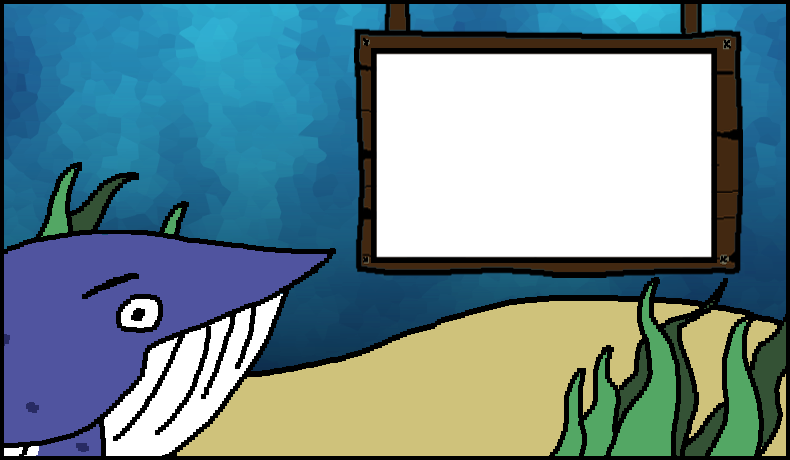
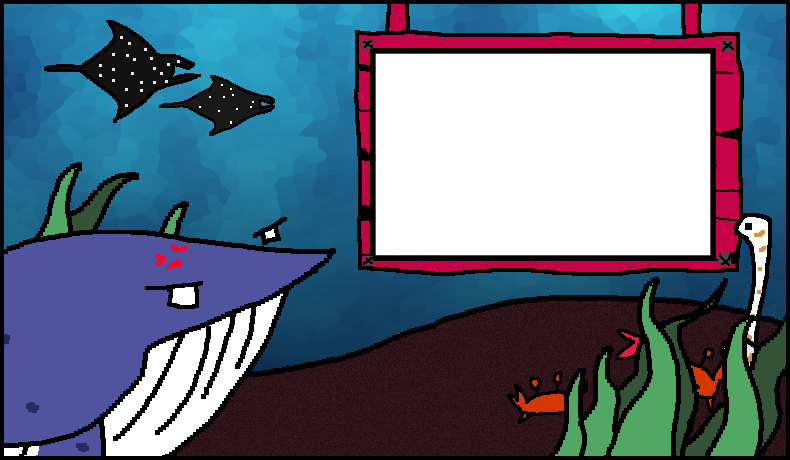
procedural commit 2

diff --git a/imageGeneration.ts b/imageGeneration.ts
@@ -1,0 +1,166 @@
+import { createCanvas, loadImage } from "canvas";
+import { randomBytes } from "crypto";
+import { load } from "dotenv";
+import * as fs from "fs";
+
+export default async function drawPicture(ticker, startDate, endDate, prices) {
+  //create canvas
+  const canvas = createCanvas(790, 460);
+  const ctx = canvas.getContext("2d");
+
+  //draw image
+  const backgroundsFolder = "./images/backgrounds";
+  const sandFolder = "./images/sand";
+  const signFolder = "./images/sign";
+  const objectFolder = "./images/objects";
+  const eyeFolder = "./images/eyes";
+  const whalePath = "./images/whale.png";
+  const imageSize = { x: 790, y: 460 };
+
+  //draw background
+  const backgroundArray = fs.readdirSync(backgroundsFolder);
+  const background = await loadImage(
+    `${backgroundsFolder}/${
+      backgroundArray[Math.floor(Math.random() * backgroundArray.length)]
+    }`
+  );
+  ctx.drawImage(background, 0, 0, imageSize.x, imageSize.y);
+
+  const sandArray = fs.readdirSync(sandFolder);
+  const sand = await loadImage(
+    `${sandFolder}/${sandArray[Math.floor(Math.random() * sandArray.length)]}`
+  );
+  ctx.drawImage(sand, 0, 0, imageSize.x, imageSize.y);
+
+  const signArray = fs.readdirSync(signFolder);
+  const sign = await loadImage(
+    `${signFolder}/${signArray[Math.floor(Math.random() * signArray.length)]}`
+  );
+  ctx.drawImage(sign, 0, 0, imageSize.x, imageSize.y);
+  //draw graph
+  drawGraph(startDate, endDate, prices, ctx);
+
+  //draw whale and objects
+  const whale = await loadImage(whalePath);
+  /*
+  NOISE FILTER
+  ctx.drawImage(whale, 0, 0, imageSize.x, imageSize.y);
+  let imgData = ctx.getImageData(0, 228, 335, 232);
+  for (let i = 0; i < imgData.data.length; i += 4) {
+    imgData.data[i] -= Math.floor(Math.random() * 255);
+    imgData.data[i + 1] -= Math.floor(Math.random() * 255);
+    imgData.data[i + 2] -= Math.floor(Math.random() * 255);
+  }
+  ctx.putImageData(imgData, 0, 228);
+  */
+
+  //draw ticker
+  ctx.save();
+  ctx.font = "40px sans-serif";
+  ctx.translate(260, 415);
+  ctx.rotate(350 * (Math.PI / 180));
+  ctx.fillStyle = "#FFFFFF";
+  ctx.fillText(ticker, 0, 0);
+  ctx.lineWidth = 1;
+  ctx.strokeStyle = "#000000";
+  ctx.strokeText(ticker, 0, 0);
+  ctx.restore();
+
+  //draw price
+  ctx.save();
+  ctx.translate(320, 435);
+  ctx.rotate(2.5 * (Math.PI / 180));
+  ctx.font = "40px sans-serif";
+
+  let change = 0;
+  let operator = "+";
+  const firstDay = prices[0];
+  const lastDay = prices[prices.length - 1];
+  if (firstDay < lastDay) {
+    change = ((lastDay - firstDay) / firstDay) * 100;
+    ctx.fillStyle = "#00FF00";
+  } else if (lastDay < firstDay) {
+    change = ((firstDay - lastDay) / firstDay) * 100;
+    operator = "-";
+    ctx.fillStyle = "#FF0000";
+  } else {
+    change = 0;
+    ctx.fillStyle = "#00FF00";
+  }
+  const result = change.toFixed(1);
+  ctx.fillText(`${operator}${result}%`, 0, 0);
+  ctx.restore();
+
+  const buffer = canvas.toBuffer("image/png");
+  fs.writeFileSync("./image.png", buffer);
+}
+
+function drawGraph(startDate, endDate, prices, ctx) {
+  //graph bounds
+  const boxX = 376;
+  const boxY = 60;
+  const boxWidth = 336;
+  const boxHeight = 198;
+
+  //graph size
+  const graphX = boxX + 50;
+  const graphY = 60;
+  const graphWidth = boxWidth - 50;
+  const graphHeight = 198;
+
+  //bar variables + % change
+  const largest = Math.max(...prices);
+  const smallest = Math.min(...prices) * 0.85;
+  const prices2 = prices
+    .map((x) => x - smallest)
+    .map((x) => x / (largest - smallest));
+  const numberOfBars = prices.length;
+  const barWidth = graphWidth / numberOfBars;
+
+  //draw graph
+  //ctx.rect(graphX, graphY, graphWidth, graphHeight);
+  //ctx.fillStyle = "blue";
+  //ctx.fill();
+  for (let i = 0; i < numberOfBars; i++) {
+    if (i == 0) {
+      ctx.fillStyle = "#FFFFFF";
+    } else if (i > 0) {
+      if (prices2[i] > prices2[i - 1]) {
+        ctx.fillStyle = "#2FF541";
+      } else {
+        ctx.fillStyle = "#F02323";
+      }
+    }
+    const barX =
+      graphWidth / 2 - barWidth * (numberOfBars / 2) + graphX + barWidth * i;
+    ctx.fillRect(
+      barX,
+      graphY + graphHeight * (1 - prices2[i]),
+      barWidth,
+      graphHeight * prices2[i]
+    );
+    ctx.lineWidth = 4;
+    ctx.strokeStyle = "black";
+    ctx.strokeRect(
+      barX,
+      graphY + graphHeight * (1 - prices2[i]),
+      barWidth,
+      graphHeight * prices2[i]
+    );
+  }
+  //highest and lowest text
+  ctx.fillStyle = "#000000";
+  ctx.fillText(largest.toPrecision(7).toString(), boxX + 2.5, boxY + 5);
+  ctx.fillText(
+    smallest.toPrecision(7).toString(),
+    boxX + 2.5,
+    boxY + boxHeight - 5
+  );
+  //draw date
+  ctx.save();
+  ctx.translate(390, 215);
+  ctx.rotate(270 * (Math.PI / 180));
+  ctx.font = "10px sans-serif";
+  ctx.fillText(`${startDate} --> ${endDate}`, 0, 0);
+  ctx.restore();
+}

diff --git a/index.ts b/index.ts
@@ -1,19 +1,18 @@
 import axios from "axios";
-import { createCanvas, loadImage } from "canvas";
-import * as fs from "fs";
 import * as dotenv from "dotenv";
+import drawPicture from "./imageGeneration";
 
 async function run() {
   dotenv.config();
 
   //get token prices
-  const ticker = "LRC";
+  const ticker = "LINK";
 
   const currency = "USD";
   const from = "2021-11-01";
   const to = "2021-11-07";
   const key_covalent = process.env.API_KEY_COVALENT;
-  const res = await axios.get(
+  /*const res = await axios.get(
     `https://api.covalenthq.com/v1/pricing/historical/USD/${ticker}/`,
     {
       params: {
@@ -26,123 +25,17 @@ async function run() {
     }
   );
   const prices = res.data.data.prices.map(({ price }) => price);
-  console.log(prices);
+  console.log(prices);*/
   //must reverse prices
-  drawPicture(ticker, from, to, prices.reverse());
-}
-
-async function drawPicture(ticker, startDate, endDate, prices) {
-  //graph bounds
-  const boxX = 376;
-  const boxY = 60;
-  const boxWidth = 336;
-  const boxHeight = 198;
-
-  //graph size
-  const graphX = boxX + 50;
-  const graphY = 60;
-  const graphWidth = boxWidth - 50;
-  const graphHeight = 198;
-
-  //bar variables + % change
-  const largest = Math.max(...prices);
-  const smallest = Math.min(...prices) * 0.85;
-  const prices2 = prices
-    .map((x) => x - smallest)
-    .map((x) => x / (largest - smallest));
-  const numberOfBars = prices.length;
-  const barWidth = graphWidth / numberOfBars;
-
-  //create canvas
-  const canvas = createCanvas(790, 460);
-  const ctx = canvas.getContext("2d");
-
-  //apply image overlay
-  const overlay = await loadImage("./test.png");
-  ctx.drawImage(overlay, 0, 0, 790, 460);
-
-  //draw graph
-  //ctx.rect(graphX, graphY, graphWidth, graphHeight);
-  //ctx.fillStyle = "blue";
-  //ctx.fill();
-  for (let i = 0; i < numberOfBars; i++) {
-    if (i == 0) {
-      ctx.fillStyle = "#8951d7";
-    } else if (i > 0) {
-      if (prices2[i] > prices2[i - 1]) {
-        ctx.fillStyle = "#2FF541";
-      } else {
-        ctx.fillStyle = "#F02323";
-      }
-    }
-    const barX =
-      graphWidth / 2 - barWidth * (numberOfBars / 2) + graphX + barWidth * i;
-    ctx.fillRect(
-      barX,
-      graphY + graphHeight * (1 - prices2[i]),
-      barWidth,
-      graphHeight * prices2[i]
-    );
-    ctx.lineWidth = 4;
-    ctx.strokeStyle = "black";
-    ctx.strokeRect(
-      barX,
-      graphY + graphHeight * (1 - prices2[i]),
-      barWidth,
-      graphHeight * prices2[i]
-    );
-    //highest and lowest text
-    ctx.fillStyle = "#000000";
-    ctx.fillText(largest.toPrecision(7).toString(), boxX + 2.5, boxY + 5);
-    ctx.fillText(
-      smallest.toPrecision(7).toString(),
-      boxX + 2.5,
-      boxY + boxHeight - 3
-    );
-    //draw date
-    ctx.save();
-    ctx.translate(390, 215);
-    ctx.rotate(270 * (Math.PI / 180));
-    ctx.font = "10px sans-serif";
-    ctx.fillText(`${startDate} --> ${endDate}`, 0, 0);
-    ctx.restore();
-
-    //draw ticker
-    ctx.save();
-    ctx.font = "40px sans-serif";
-    ctx.translate(260, 415);
-    ctx.rotate(350 * (Math.PI / 180));
-    ctx.fillText(ticker, 0, 0);
-    ctx.restore();
-
-    //draw price
-    ctx.save();
-    ctx.translate(320, 435);
-    ctx.rotate(2.5 * (Math.PI / 180));
-    ctx.font = "40px sans-serif";
-
-    let change = 0;
-    let sign = "+";
-    const firstDay = prices[0];
-    const lastDay = prices[prices.length - 1];
-    if (firstDay < lastDay) {
-      change = ((lastDay - firstDay) / firstDay) * 100;
-      ctx.fillStyle = "#00FF00";
-    } else if (lastDay < firstDay) {
-      change = ((firstDay - lastDay) / firstDay) * 100;
-      sign = "-";
-      ctx.fillStyle = "#FF0000";
-    } else {
-      change = 0;
-      ctx.fillStyle = "#00FF00";
-    }
-    const result = change.toFixed(1);
-    ctx.fillText(`${sign}${result}%`, 0, 0);
-    ctx.restore();
-  }
-
-  const buffer = canvas.toBuffer("image/png");
-  fs.writeFileSync("./image.png", buffer);
+  //drawPicture(ticker, from, to, prices.reverse());
+  drawPicture(
+    ticker,
+    from,
+    to,
+    [
+      32.09862, 33.030907, 33.21997, 31.865974, 32.00435, 31.291933, 31.847345,
+    ].reverse()
+  );
 }
 
 run();
